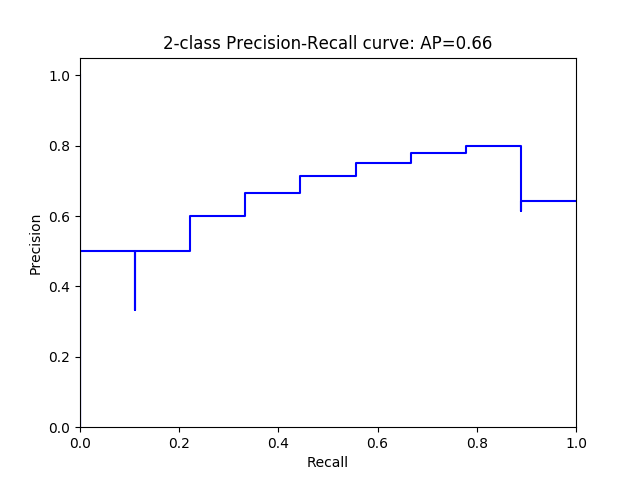
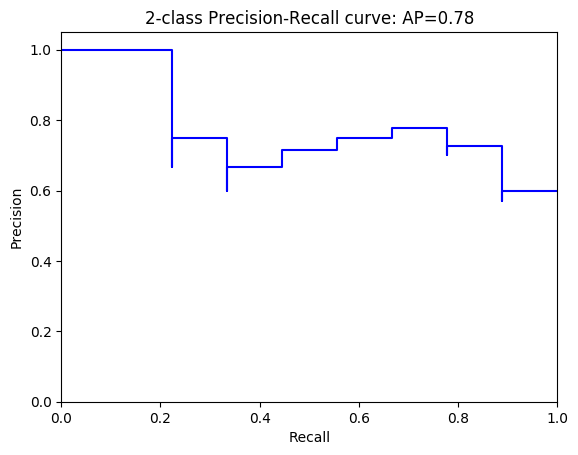
Comparison table added

diff --git a/templates/svm.html b/templates/svm.html
@@ -51,5 +51,65 @@
 <h2>Average precision</h2>
 
 <img src="/static/plots/pr_rc_plot.png">
+<p>
+<h2>Precision / Recall / F1-Score</h2>
+<div class="top-crop">
+    <img src="/static/plots/pr_rc_table_svm.png" alt="" style="margin-top: -350px"/>
+</div>
+
+
+
+
+<h1 class="mt-5">SVM with additional features</h1>
+<p>
+    Chosen Features for <b>baseline</b>:
+<ul>
+    <li>
+        70% data taken for training and 30% for testing.
+    </li>
+    <li>
+        Term Frequency method was chosen to vectorize the news headline and news body
+    </li>
+    <li>
+        Latent Semantic Analysis done to reduce the dimension of the feature vector to 30 dimensions preserving 93% of the variance.
+    </li>
+    <li>
+        Number of slang words used.
+    </li>
+    <li>
+        Number of punctuations (exclamations)
+    </li>
+    <li>
+        Fake / True suffixes.
+    </li>
+</ul>
 </p>
+<p>
+    Chosen parameters from cross validation (5-fold):
+<ul>
+    <li>C: 10</li>
+    <li>Kernel: Linear</li>
+
+</ul>
+
+<h1 class="mt-5">Graphs</h1>
+
+
+<h2>Receiver Operating Characteristics (ROC)</h2>
+
+<img src="/static/plots/roc_svm_all.png">
+
+<p>
+
+<h2>Average precision</h2>
+
+<img src="/static/plots/pr_rc_svm_all.png">
+
+        <p>
+<h2>Precision / Recall / F1-Score</h2>
+<div class="top-crop">
+    <img src="/static/plots/pr_rc_table_svm_all.png" alt="" style="margin-top: -350px"/>
+</div>
+
+
 {%endblock%}

diff --git a/templates/naivebayes.html b/templates/naivebayes.html
@@ -50,5 +50,68 @@
 
 <img src="/static/plots/pr_rc_nb.png">
 
+
+
+
+        <p>
+<h2>Precision / Recall / F1-Score</h2>
+<div class="top-crop">
+    <img src="/static/plots/pr_rc_table_nb.png" alt="" style="margin-top: -350px"/>
+</div>
+
+
+
+
+<h1 class="mt-5">Naive with additional features</h1>
+<p>
+    Chosen Features:
+<ul>
+    <li>
+        70% data taken for training and 30% for testing.
+    </li>
+    <li>
+        Term Frequency method was chosen to vectorize the news headline and news body
+    </li>
+    <li>
+        Latent Semantic Analysis done to reduce the dimension of the feature vector to 30 dimensions preserving 93% of the variance.
+    </li>
+    <li>
+        Number of slang words used.
+    </li>
+    <li>
+        Number of punctuations (exclamations)
+    </li>
+    <li>
+        Fake / True suffixes.
+    </li>
+</ul>
+</p>
+<p>
+    Chosen parameters from cross validation (5-fold):
+<ul>
+    <li>Alpha: 1</li>
+
+</ul>
+
+<h1 class="mt-5">Graphs</h1>
+
+
+<h2>Receiver Operating Characteristics (ROC)</h2>
+
+<img src="/static/plots/roc_nb_all.png">
+
+<p>
+
+<h2>Average precision</h2>
+
+<img src="/static/plots/pr_rc_nb_all.png">
+
+        <p>
+<h2>Precision / Recall / F1-Score</h2>
+<div class="top-crop">
+    <img src="/static/plots/pr_rc_table_nb_all.png" alt="" style="margin-top: -350px"/>
+</div>
+
+
 </p>
 {%endblock%}

diff --git a/templates/comparison.html b/templates/comparison.html
@@ -1,0 +1,27 @@
+{% extends "base.html" %}
+
+{% block sidebar_elements%}
+    <li>
+        <a href="/naivebayes">Naive Bayes</a>
+    </li>
+    <li>
+        <a href="/svm">SVM</a>
+    </li>
+    <li>
+        <a href="/comparison" class="sidebar-active">Comparisons</a>
+    </li>
+    <li>
+        <a href="/classify">Classify a News</a>
+    </li>
+{% endblock %}
+
+
+{% block container %}
+          <h1 class="mt-5">Comparison</h1>
+          <h3 class="mt-5">Table showing the differences between the baseline and other different models.</h3>
+          <p>
+              <div class="top-crop">
+                <img src="/static/plots/comparison.png" style="margin-top: -350px">
+              </div>
+          </p>
+{%endblock%}

diff --git a/templates/base.html b/templates/base.html
@@ -24,6 +24,15 @@
         .sidebar-active {
             color: #fff!important
         }
+
+   .top-crop {
+       overflow: hidden;
+       /*max-height: 400px;*/
+   }
+
+   .top-crop img {
+       max-height: 100%;
+    }
     </style>
 
   </head>

diff --git a/main.py b/main.py
@@ -77,7 +77,8 @@ if __name__ == "__main__":
     classifier = get_baseline_svm()
     classifier.plot_precision_recall(True, "pr_rc_plot.png")
     classifier.plot_roc(True, "roc_svm.png")
-
+    classifier.plot_precision_recall_f1_table("SVM(baseline)", file_name="pr_rc_table_svm.png")
+    bsvm = classifier
     # precision, recall and f1 score for baseline
     p_b, r_b, f_b = classifier.get_precision_recall_f1()
     print p_b, r_b, f_b
@@ -87,7 +88,8 @@ if __name__ == "__main__":
     classifier = get_baseline_nb()
     classifier.plot_precision_recall(True, file_name="pr_rc_nb.png")
     classifier.plot_roc(True, "roc_nb.png")
-
+    classifier.plot_precision_recall_f1_table("NB(baseline)", file_name="pr_rc_table_nb.png")
+    bnb = classifier
     # precision, recall and f1 score for baseline
     p_b, r_b, f_b = classifier.get_precision_recall_f1()
     print p_b, r_b, f_b
@@ -96,6 +98,8 @@ if __name__ == "__main__":
     classifier = get_all_svm()
     classifier.plot_precision_recall(True, file_name="pr_rc_svm_all.png")
     classifier.plot_roc(True, "roc_svm_all.png")
+    classifier.plot_precision_recall_f1_table("SVM(all)", file_name="pr_rc_table_svm_all.png")
+    asvm = classifier
 
     # precision, recall and f1 score for baseline
     p_b, r_b, f_b = classifier.get_precision_recall_f1()
@@ -105,7 +109,16 @@ if __name__ == "__main__":
     classifier = get_all_nb()
     classifier.plot_precision_recall(True, file_name="pr_rc_nb_all.png")
     classifier.plot_roc(True, "roc_nb_all.png")
-
+    classifier.plot_precision_recall_f1_table("NB(all)", file_name="pr_rc_table_nb_all.png")
+    anb = classifier
     # precision, recall and f1 score for baseline
     p_b, r_b, f_b = classifier.get_precision_recall_f1()
     print p_b, r_b, f_b
+
+    df = pd.concat([bsvm._get_precision_recall_f1_df(),
+                    bnb._get_precision_recall_f1_df(),
+                    asvm._get_precision_recall_f1_df(),
+                    anb._get_precision_recall_f1_df()])
+    print df.head()
+    classifier.plot_precision_recall_f1_table(description=["SVM (baseline)", "NB (baseline)", "SVM (all features)", "NB (all features)"],
+                                              df=df, file_name="comparison.png")

diff --git a/Training/FakeNews.py b/Training/FakeNews.py
@@ -1,3 +1,4 @@
+from pandas.plotting import table
 from sklearn.linear_model import LogisticRegression
 import snowballstemmer
 from sklearn.decomposition import TruncatedSVD
@@ -74,7 +75,7 @@ class TurkishFakeNewsClassifier:
             df.drop(["Value"], axis=1),
             df["Value"],
             test_size=test_size,
-            random_state=1,
+            random_state=11,
             stratify=df["Value"])
         return X_train, X_test, y_train, y_test
 
@@ -83,7 +84,7 @@ class TurkishFakeNewsClassifier:
             plt.show()
         else:
             # save this plot
-            plt.savefig("static/plots/%s" % file_name)
+            plt.savefig("static/plots/%s" % file_name, bbox_inches='tight')
 
     def get_precision_recall_f1(self):
         assert hasattr(self, "y_test") and hasattr(self, "y_score"), "Call this function only after train has been called"
@@ -91,6 +92,29 @@ class TurkishFakeNewsClassifier:
         recall = recall_score(self.y_test, self.y_pred)
         f1 = f1_score(self.y_test, self.y_pred)
         return precision, recall, f1
+
+
+    def _get_precision_recall_f1_df(self):
+        precision, recall, f1 = self.get_precision_recall_f1()
+        return pd.DataFrame(data={
+            "Precision": ["%.2f" % precision],
+            "Recall": ["%.2f" % recall],
+            "F1-Score": ["%.2f" % f1],
+        }, columns=["Precision", "Recall", "F1-Score"])
+
+    def plot_precision_recall_f1_table(self, description=None, df=None, save_image=True, file_name="precision_recall.png"):
+        if df is None:
+            df = self._get_precision_recall_f1_df()
+        plt.figure()
+        ax = plt.subplot(111, frame_on=False) # no visible frame
+        ax.xaxis.set_visible(False)  # hide the x axis
+        ax.yaxis.set_visible(False)  # hide the y axis
+        if not isinstance(description, list):
+            description = [description]
+        table(ax, df, description)  # where df is your data frame
+
+        self.plot_or_save(plt, save_image, file_name)
+
 
     def plot_precision_recall(self, save_img=False, file_name="pr_rc_plot.png"):
         plt.figure()

diff --git a/Utils/Extractor.py b/Utils/Extractor.py
@@ -25,7 +25,7 @@ class TurkishFeatureExtractor(BaseEstimator):
         # transform the given data frame.. concretely, add new columns with the features
         if self.slang:
             X["slangs"] = X["NewsTitle"].str.count(slang_regex) + X["News"].str.count(slang_regex)
-            print zip(self.y_values, X["slangs"].values)
+            # print zip(self.y_values, X["slangs"].values)
 
         if self.suffixes:
             X["fake_suffix_count"] = X["NewsTitle"].str.count(fake_suffix_regex) + X["News"].str.count(fake_suffix_regex)

diff --git a/Utils/FeatureAdder.py b/Utils/FeatureAdder.py
@@ -29,7 +29,7 @@ class TurkishFeatureAdder(BaseEstimator):
                 combined_feature.append(X[[features]])
 
 
-        print "Captured variance is %.2f" % self.pca.explained_variance_ratio_.sum()
+        # print "Captured variance is %.2f" % self.pca.explained_variance_ratio_.sum()
         # stack them together
         result = MinMaxScaler().fit_transform(numpy.hstack(combined_feature))
         return result
